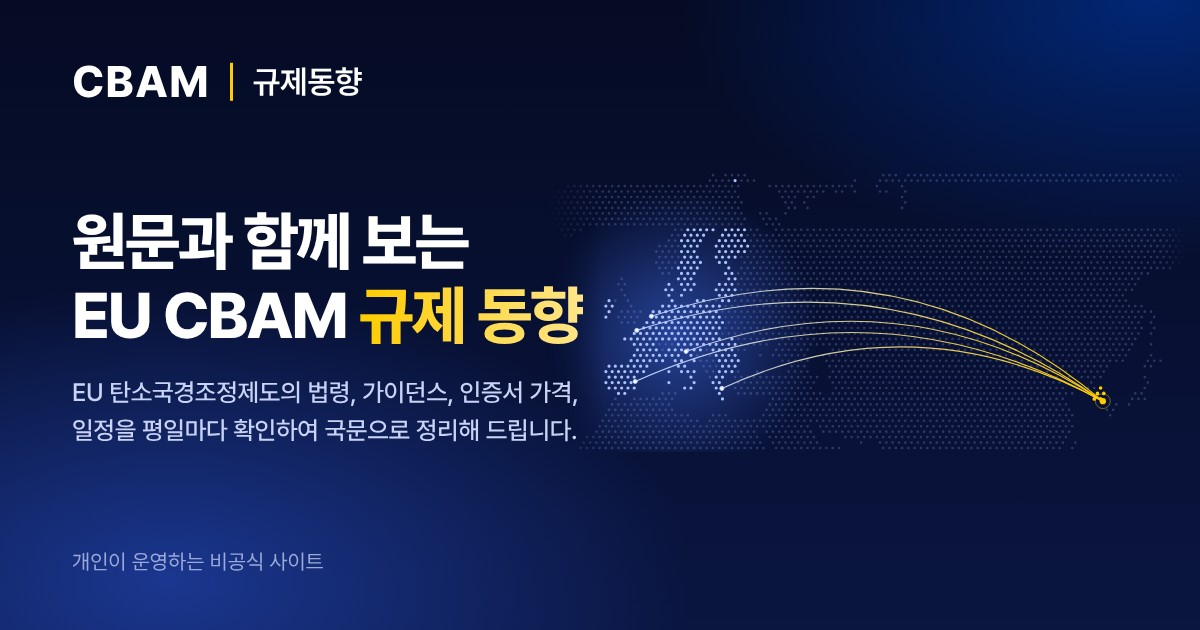
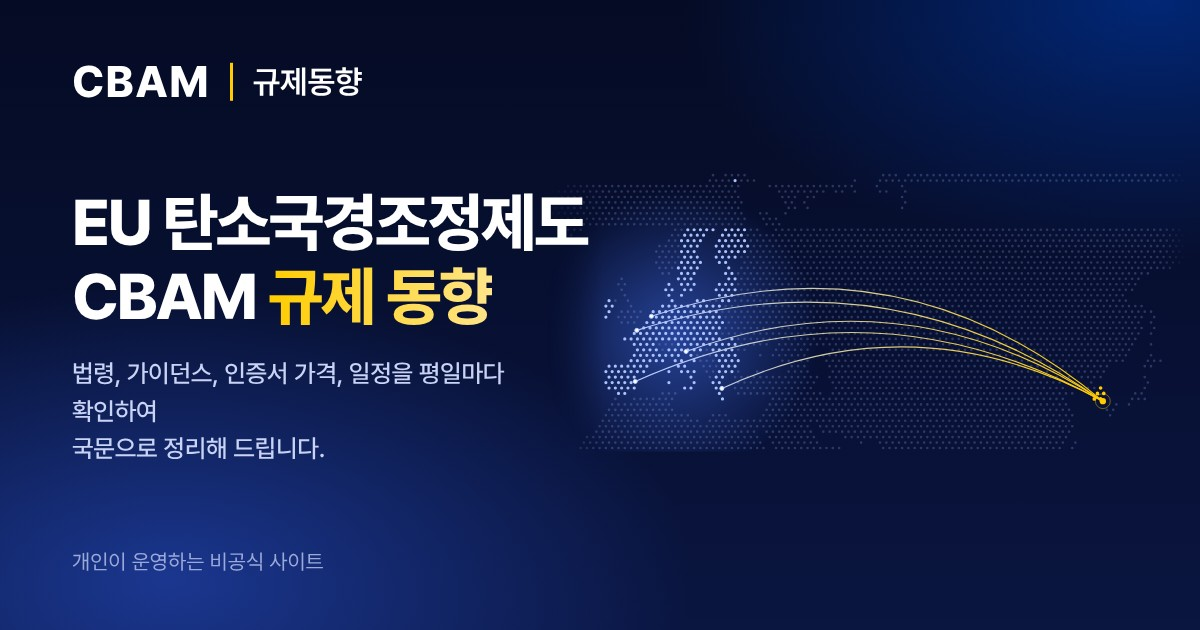
첫 화면의 큰 제목에서 '원문'을 빼고 제도 이름과 사이트의 주제만 남김
Claude-Session: https://claude.ai/code/session_012Knzacgts1tPR5cwGF12g6

Changed region(s): [[0.0617, 0.3016, 0.4933, 0.5429], [0.0617, 0.573, 0.4933, 0.7238]]

diff --git a/site/css/layout.css b/site/css/layout.css
@@ -56,7 +56,7 @@ main:has(> .showcase:last-child) { padding-bottom: 0; }
 .hero-fresh[data-state="stale"]::before, .hero-fresh[data-state="bad"]::before { background: var(--accent); box-shadow: 0 0 0 3px rgba(255, 204, 0, 0.22); }
 .hero h1 { font-size: var(--fs-hero); font-weight: 800; letter-spacing: -0.035em; line-height: 1.16; }
 .hero h1 .hl { background: linear-gradient(90deg, var(--hl-from), var(--hl-to)); -webkit-background-clip: text; background-clip: text; color: transparent; }
-.hero-lead { max-width: 30em; font-size: 1.08rem; color: var(--on-deep-2); }
+.hero-lead { max-width: 30em; font-size: 1.08rem; color: var(--on-deep-2); text-wrap: balance; word-break: keep-all; }
 .hero-actions { display: flex; flex-wrap: wrap; gap: 10px; margin-top: 6px; }
 .hero-map { position: absolute; z-index: 1; top: 34px; right: -84px; width: min(62%, 720px); aspect-ratio: 1117 / 488; pointer-events: none; -webkit-mask-image: linear-gradient(90deg, transparent, #000 14%, #000 88%, transparent); mask-image: linear-gradient(90deg, transparent, #000 14%, #000 88%, transparent); }
 .hero-map .map { position: absolute; inset: 0; width: 100%; height: 100%; overflow: visible; }

diff --git a/site/js/views/home/hero.js b/site/js/views/home/hero.js
@@ -9,8 +9,8 @@ export function hero(book, events, items, dated) {
     heroMap(),
     h("div", { class: "hero-copy" }, [
       h("p", { class: "hero-fresh", "data-fresh": "" }),
-      h("h1", {}, ["원문과 함께 보는", h("br"), "EU CBAM ", h("span", { class: "hl", text: "규제 동향" })]),
-      h("p", { class: "hero-lead", text: "EU 탄소국경조정제도의 법령, 가이던스, 인증서 가격, 일정을 평일마다 확인하여 국문으로 정리해 드립니다." }),
+      h("h1", {}, ["EU 탄소국경조정제도", h("br"), "CBAM ", h("span", { class: "hl", text: "규제 동향" })]),
+      h("p", { class: "hero-lead", text: "법령, 가이던스, 인증서 가격, 일정을 평일마다 확인하여 국문으로 정리해 드립니다." }),
       h("div", { class: "hero-actions" }, [
         h("a", { class: "btn btn-main", href: "#news", text: "새 소식 보기" }),
         h("a", { class: "btn btn-ghost", href: "#price", text: "인증서 가격 보기" }),

diff --git a/tools/art/social.html b/tools/art/social.html
@@ -36,8 +36,8 @@
   <div class="brand"><span class="brand-word">CBAM</span><span class="brand-name">규제동향</span></div>
   <div id="art"></div>
   <div class="copy">
-    <h1>원문과 함께 보는<br>EU CBAM <span>규제 동향</span></h1>
-    <p class="lead">EU 탄소국경조정제도의 법령, 가이던스, 인증서 가격, 일정을 평일마다 확인하여 국문으로 정리해 드립니다.</p>
+    <h1>EU 탄소국경조정제도<br>CBAM <span>규제 동향</span></h1>
+    <p class="lead">법령, 가이던스, 인증서 가격, 일정을 평일마다 확인하여<br>국문으로 정리해 드립니다.</p>
   </div>
   <div class="foot">개인이 운영하는 비공식 사이트</div>
 </div>
